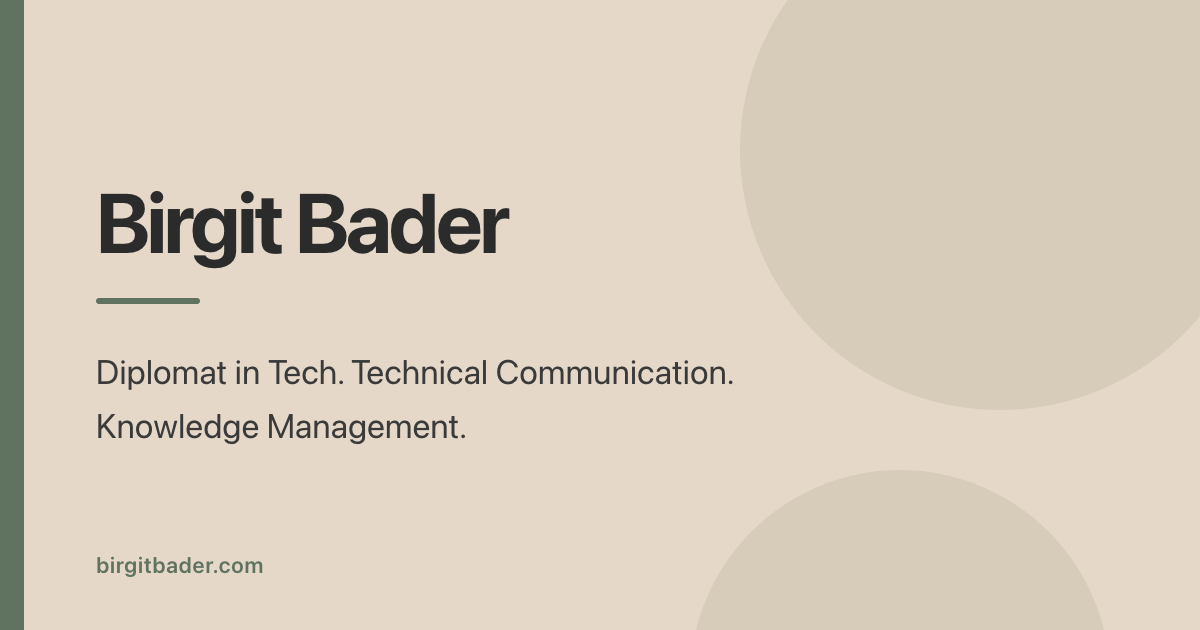
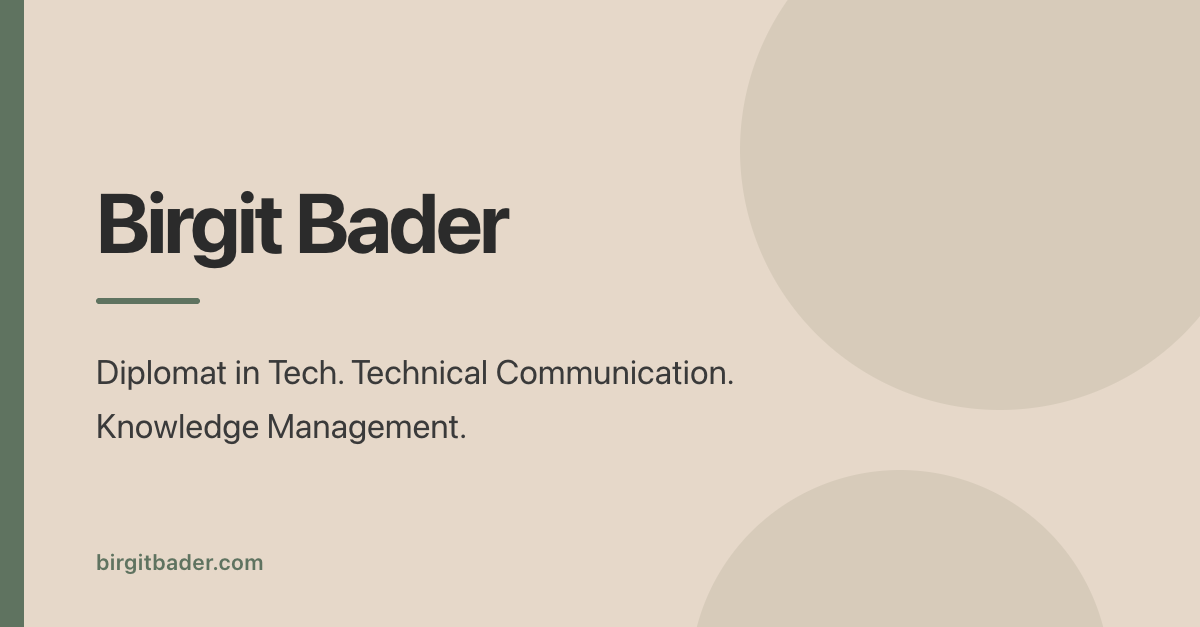
optimize preview images

diff --git a/layouts/partials/head.html b/layouts/partials/head.html
@@ -35,11 +35,15 @@
        wochenlang die alte Version aus ihrem Cache zu zeigen.
        Vorlage und Anleitung: tools/og-image.html */ -}}
 {{- $ogImage := "" -}}
+{{- $ogImageWidth := 1200 -}}
+{{- $ogImageHeight := 627 -}}
 {{- with .Params.image -}}
   {{- $ogImage = absURL . -}}
 {{- else -}}
   {{- with resources.Get site.Params.ogImage -}}
     {{- $ogImage = (. | resources.Fingerprint "sha256").Permalink -}}
+    {{- $ogImageWidth = .Width -}}
+    {{- $ogImageHeight = .Height -}}
   {{- end -}}
 {{- end -}}
 
@@ -68,8 +72,8 @@
 <meta property="og:url" content="{{ .Permalink }}">
 <meta property="og:locale" content="en_US">
 <meta property="og:image" content="{{ $ogImage }}">
-<meta property="og:image:width" content="1200">
-<meta property="og:image:height" content="630">
+<meta property="og:image:width" content="{{ $ogImageWidth }}">
+<meta property="og:image:height" content="{{ $ogImageHeight }}">
 <meta property="og:image:alt" content="Birgit Bader — Diplomat in Tech. Technical Communication. Knowledge Management.">
 
 {{- if and .IsPage (eq .Section "blog") }}

diff --git a/tools/og-image.html b/tools/og-image.html
@@ -1,10 +1,11 @@
 <!doctype html>
 <!--
-  Vorlage fuer das Vorschaubild beim Teilen (LinkedIn, Slack, X …), 1200 x 630.
+  Vorlage fuer das Vorschaubild beim Teilen (LinkedIn, Slack, X …), 1200 x 627 —
+  das von LinkedIn empfohlene Format.
   Nach einer Textaenderung neu erzeugen (aus dem Repo-Root):
 
     "/Applications/Google Chrome.app/Contents/MacOS/Google Chrome" --headless=new \
-      --hide-scrollbars --window-size=1200,630 --force-device-scale-factor=1 \
+      --hide-scrollbars --window-size=1200,627 --force-device-scale-factor=1 \
       --screenshot="$PWD/assets/images/og-image.png" "file://$PWD/tools/og-image.html"
 
   Die Bild-URL bekommt beim Build einen Fingerprint — ein neues Bild hat damit
@@ -18,7 +19,7 @@
   html, body {
     margin: 0;
     width: 1200px;
-    height: 630px;
+    height: 627px;
     overflow: hidden;
   }
 
